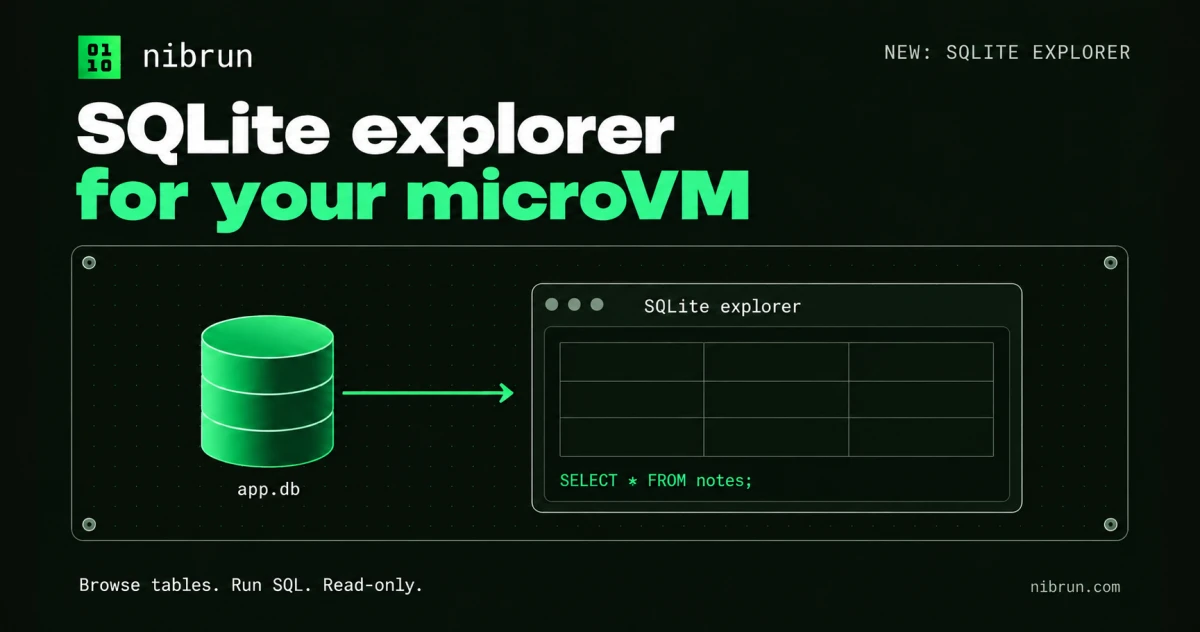
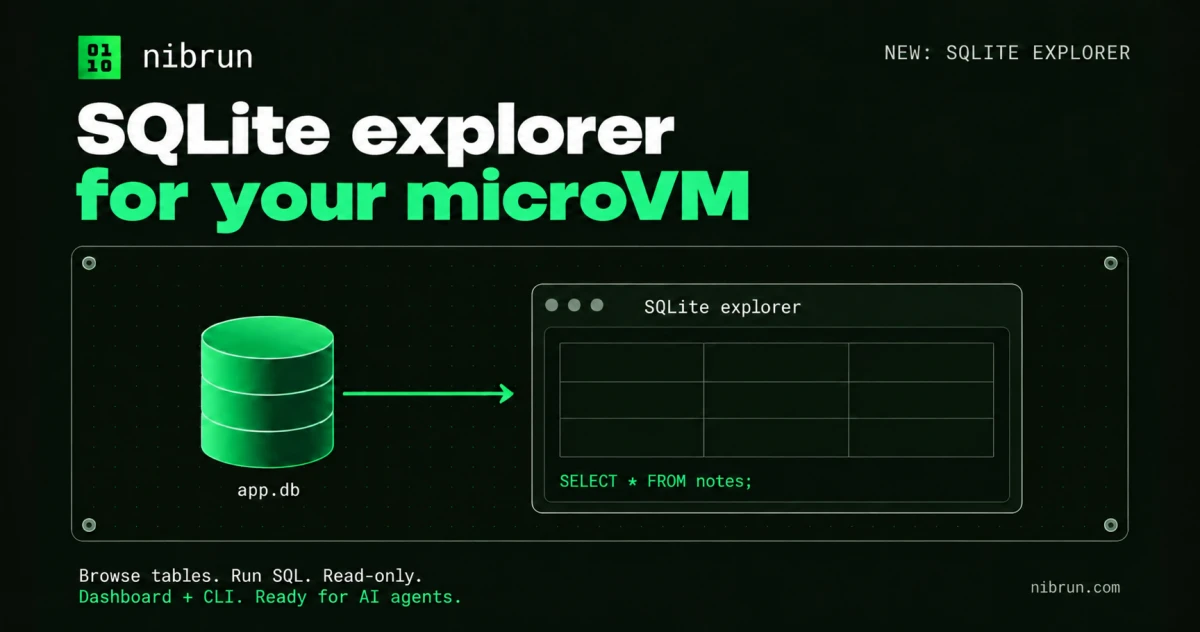
docs(www): highlight SQLite CLI and AI agent access

diff --git a/apps/www/src/content/blog/explore-sqlite-from-the-dashboard.md b/apps/www/src/content/blog/explore-sqlite-from-the-dashboard.md
@@ -11,7 +11,10 @@ exporting the data and opening a local copy.
 You can now explore it from the dashboard. Open the database file in a new tab, and the
 queries run against the database your app is using.
 
-![A SQLite database file opens in the nibrun dashboard to browse tables and run read-only SQL.](/blog/explore-sqlite-from-the-dashboard.webp)
+The `nib` CLI can query the same live database. An AI agent with access to your signed-in
+CLI can explore it too, without downloading the file or changing its data.
+
+![A SQLite database file opens in the nibrun explorer, with dashboard, CLI and AI agent access highlighted.](/blog/explore-sqlite-from-the-dashboard.webp)
 
 > **Already running an app?** If it was running before the SQLite explorer launched, you
 > may get a 502 when opening a database. Click **Suspend**, wait until the app shows
@@ -76,10 +79,11 @@ password or token to create before opening the explorer.
 The database stays in your app's persistent directory. Your binary still opens the same file,
 and you can still export it with the rest of your app's data.
 
-## Explore with your AI agent
+## Explore through the CLI or your AI agent
 
-An AI agent with access to your signed-in `nib` CLI can query the live database too.
-Connections are read-only, so it can explore without changing data or schema. Give it the
+Use `nib apps sqlite` to discover the CLI commands for connections and SQL queries.
+An AI agent with access to your signed-in CLI can use those same commands. Connections are
+read-only, so it can explore without changing data or schema. Give it the
 [nibrun skill](https://github.com/ilbertt/nibrun/blob/main/skills/deploy-to-nibrun/SKILL.md#inspecting-sqlite-databases)
 for the CLI workflow.
 
